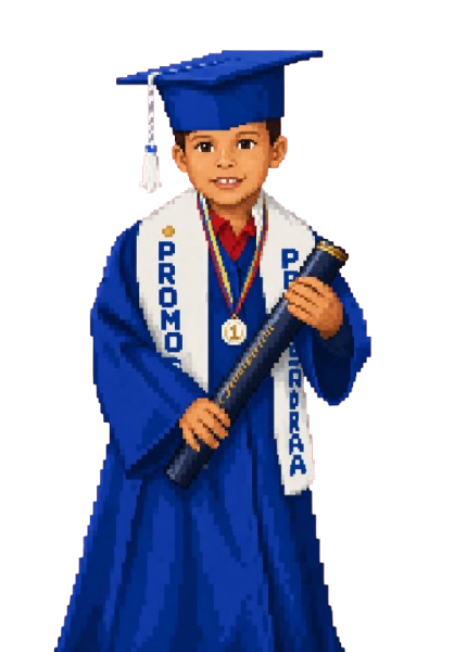
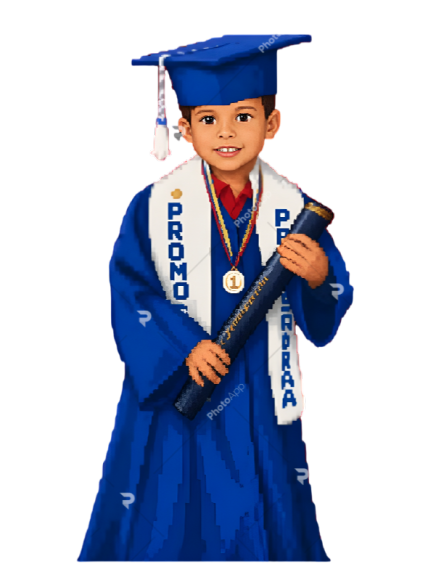
Mejorando un poco las secciones, agregando una foto mia, agregando el numero de telefono y la seccion de certificados

Changed region(s): [[0.1193, 0.0594, 0.8349, 1.0]]

diff --git a/src/pages/XP.tsx b/src/pages/XP.tsx
@@ -1,6 +1,8 @@
 import Modal from '../components/Modal';
 import { experiencias, type Experiencia } from '../experiencias';
+import yoGraduacion from '../assets/yo-graduacion-pequeno.png'
 import { useState } from 'react';
+import Line from '../components/LineSection'
 
 function Proyectos() {
 
@@ -8,7 +10,6 @@ function Proyectos() {
   
   return (
     <section id='experiencia' className="full-section">
-    <div>
       <h1 className="title">EXPERIENCIA</h1>
       <div className='xp-img'>
         {Object.entries(experiencias).map(([key,exp]) => (
@@ -25,7 +26,8 @@ function Proyectos() {
         foto={seleccion.foto} 
         onClose={() => setSeleccion(null)} 
       />}
-      </div>
+      <img className='yo-graduacion' src={yoGraduacion} alt="Yo Graduación" />
+      <Line/>
     </section>
   )
 }

diff --git a/src/App.css b/src/App.css
@@ -22,8 +22,14 @@
   min-height: 100svh;
   display: flex;
   flex-direction: column;
-  justify-content: center;
+  justify-content: flex-start;
+  padding-block-start: clamp(2rem, 10vh, 8rem);
   align-items: center;
+  scroll-margin-top: 20px;
+}
+
+#experiencia {
+  position: relative;
 }
 
 .yo-image img {
@@ -164,6 +170,12 @@
   padding: 0px;
 }
 
+.correo {
+  border: none;
+  box-shadow: none;
+  font-size: clamp(1rem, 1vw + 0.5rem, 1.5rem);
+}
+
 a {
   font-family: var(--sans);
 }
@@ -202,6 +214,20 @@ a {
 
 .xp-item figcaption {
   max-width: 200px;
+
+}
+
+.yo-graduacion {
+  width: 700px;
+  height: 640px;
+  margin-top: 10px;
+}
+
+.grilla-certificados{
+  display: grid;
+  grid-template-columns: repeat(4, 1fr);
+  grid-template-rows: repeat(4, 50px);   
+  gap: 100px;
 
 }
 

diff --git a/src/pages/Certificados.tsx b/src/pages/Certificados.tsx
@@ -1,0 +1,24 @@
+import Line from '../components/LineSection'
+
+function Certificados() {
+  
+  return (
+    <section id="certificados" className="full-section">
+        <h1 className="title">CERTIFICADOS</h1>
+        <div className='grilla-certificados'>
+          <div>certificado 1</div>
+          <div>certificado 2</div>   
+          <div>certificado 3</div>   
+          <div>certificado 4</div>   
+          <div>certificado 5</div>   
+          <div>certificado 6</div>   
+          <div>certificado 7</div>   
+          <div>certificado 8</div>   
+        </div>
+ 
+        <Line/>
+    </section>
+  )
+}
+
+export default Certificados;

diff --git a/src/pages/Home.tsx b/src/pages/Home.tsx
@@ -1,6 +1,8 @@
 import yoImage from '../assets/yo-pixel-art.jpg'
+import Certificados from './Certificados'
 import Contacto from './Contacto'
 import Proyectos from './XP'
+import Line from '../components/LineSection'
 
 function Home() {
 
@@ -13,8 +15,10 @@ function Home() {
             <a href="https://www.linkedin.com/in/gabriel-eduardo-martinez-martinez-a12068267/" target="_blank" rel="noopener noreferrer"><img src={yoImage} alt="yo" /></a>
         </div>
             <p className='name'>YEIGEN</p>
+        <Line/>
         </section>
         <Proyectos/>
+        <Certificados/>
         <Contacto/>
     </div>
   )

diff --git a/src/components/css/Line.css b/src/components/css/Line.css
@@ -1,0 +1,16 @@
+.linea-horizontal {
+    width: 98.5vw;
+    height: 10px;
+    box-shadow: 0 4px 4px #b83be649;
+    backdrop-filter: blur(10px);
+    border-radius: 16px;
+    background: rgba(80, 5, 5, 0.2);
+    border: 1px solid rgba(255, 255, 255, 0.3);
+    margin: 10px;
+    padding: 2px;
+}
+
+#experiencia .linea-horizontal {
+      position: relative;
+      top: -20px;
+}

diff --git a/src/pages/Contacto.tsx b/src/pages/Contacto.tsx
@@ -1,9 +1,13 @@
+import Line from '../components/LineSection'
+
 function Contacto() {
   return (
     <section id="contacto" className="full-section">
     <div>
     <h1 className="title">CONTACTO</h1>
+      <a href="mailto:gabriel.dev.edwards@gmail.com"><h2 className="correo">gabriel.dev.edwards@gmail.com</h2></a>
     </div>
+      <Line/>
     </section>
   );
 }

diff --git a/src/components/LineSection.tsx b/src/components/LineSection.tsx
@@ -1,0 +1,9 @@
+import './css/Line.css'
+
+function Line() {
+    return (
+      <div className="linea-horizontal"></div>
+    );
+}
+
+export default Line;
